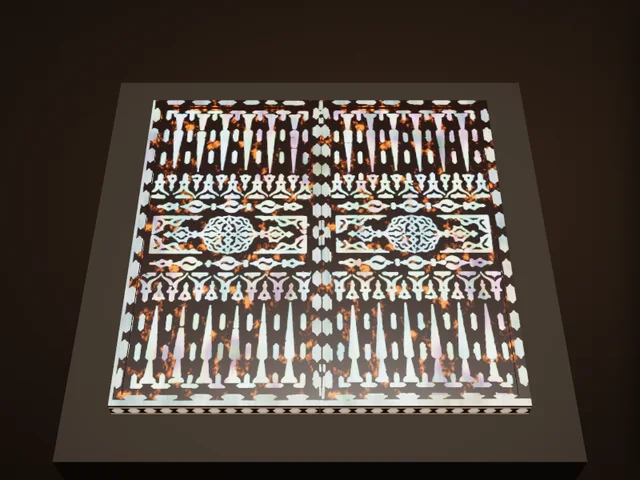
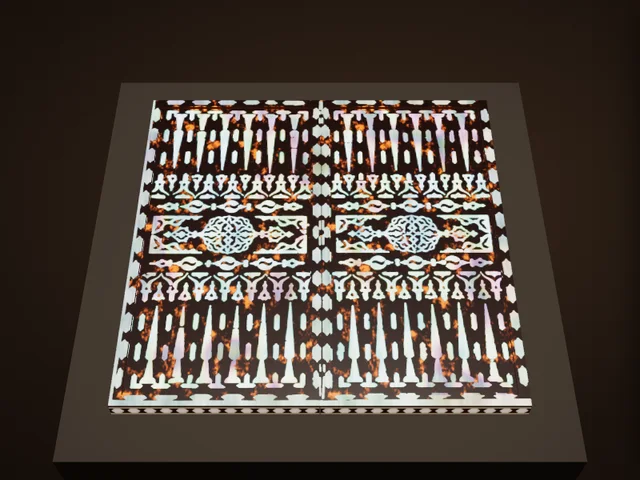
博物館：バックギャモン盤の照り返しを抑える
Claude-Session: https://claude.ai/code/session_01EiWRAZTxRF5M5nk5vdR2jJ

Changed region(s): [[0.1562, 0.4688, 0.8438, 0.8438]]

diff --git a/atlas/museum/ex/ottoman.js b/atlas/museum/ex/ottoman.js
@@ -238,7 +238,7 @@
       // moves, a piece swings from grey-white through pink to green and blue, and its neighbour does so at another moment. Done in the
       // shader: on the pearl (mask) the colour is tinted by a phase made of the piece's own grain (a noise picture) and the direction it
       // is looked at from, taken in the board's own space — so turning the board changes it.
-      const face = (map, mask) => { const m = K.mat({ map, color: '#f2f0ee', roughness: .42, metalness: 0, clearcoat: .25, clearcoatRoughness: .45 });
+      const face = (map, mask) => { const m = K.mat({ map, color: '#f2f0ee', roughness: .42, metalness: 0, clearcoat: .12, clearcoatRoughness: .55, specularIntensity: .45 });   // (little mirror-like shine: the lamp's reflection washed the near edge out)
         m.onBeforeCompile = sh => { sh.uniforms.uMask = { value: mask }; sh.uniforms.uGrain = { value: thickT };
           sh.vertexShader = sh.vertexShader.replace('#include <common>', '#include <common>\nvarying vec3 vObjView;').replace('#include <begin_vertex>', '#include <begin_vertex>\nvObjView = (inverse(modelMatrix) * vec4(cameraPosition, 1.0)).xyz - position;');
           sh.fragmentShader = sh.fragmentShader.replace('#include <common>', '#include <common>\nuniform sampler2D uMask; uniform sampler2D uGrain; varying vec3 vObjView;').replace('#include <map_fragment>', `#include <map_fragment>

diff --git a/atlas/museum.js b/atlas/museum.js
@@ -32,7 +32,7 @@
   const ROOMS = [
     { id: 'map', ready: () => !!window.AtlasMap, render: (el, c) => AtlasMap.render(el, c) },
     { id: 'tree', src: ['museum/tree.js?v=3'], ready: () => !!window.AtlasTree, render: (el, c) => AtlasTree.render(el, c) },
-    { id: 'gallery', src: ['museum/gallery.js?v=62'], ready: () => !!window.AtlasGallery, render: (el, c) => AtlasGallery.render(el, c) },
+    { id: 'gallery', src: ['museum/gallery.js?v=63'], ready: () => !!window.AtlasGallery, render: (el, c) => AtlasGallery.render(el, c) },
   ];
   const KEY = 'atlas-museum-room';
   const esc = s => String(s == null ? '' : s).replace(/[&<>"]/g, c => ({ '&': '&amp;', '<': '&lt;', '>': '&gt;', '"': '&quot;' }[c]));

diff --git a/atlas/index.html b/atlas/index.html
@@ -2559,7 +2559,7 @@ window.AtlasRgdTimer = function (btn, ms, alive) {
 <link rel="stylesheet" href="worldmap.css?v=19">
 <link rel="stylesheet" href="museum.css?v=4">
 <script src="worldmap.js?v=40"></script>
-<script src="museum.js?v=63"></script>
+<script src="museum.js?v=64"></script>
 <script src="npc/npc.js?v=46"></script>
 <script src="avtalk.js?v=4"></script>
 <script>/* Page states as classes on <html> (2026-11-21) — html.cov-on: the 3D view / Historia / a sheet / a level sheet is open;

diff --git a/atlas/museum/gallery.js b/atlas/museum/gallery.js
@@ -10,7 +10,7 @@
    (a turn, a zoom, the slow turntable) and never while the window is in the background. */
 (function () {
   'use strict';
-  const V = 62;
+  const V = 63;
   /* ---------- the pieces: id, the game it belongs to, its scale (cm per model unit), the camera's start, the details ----------
      lock: { game, ach } → open after that many achievements of the game. src: the files the piece needs (besides ex/<id>.js) */
   const EX = [
